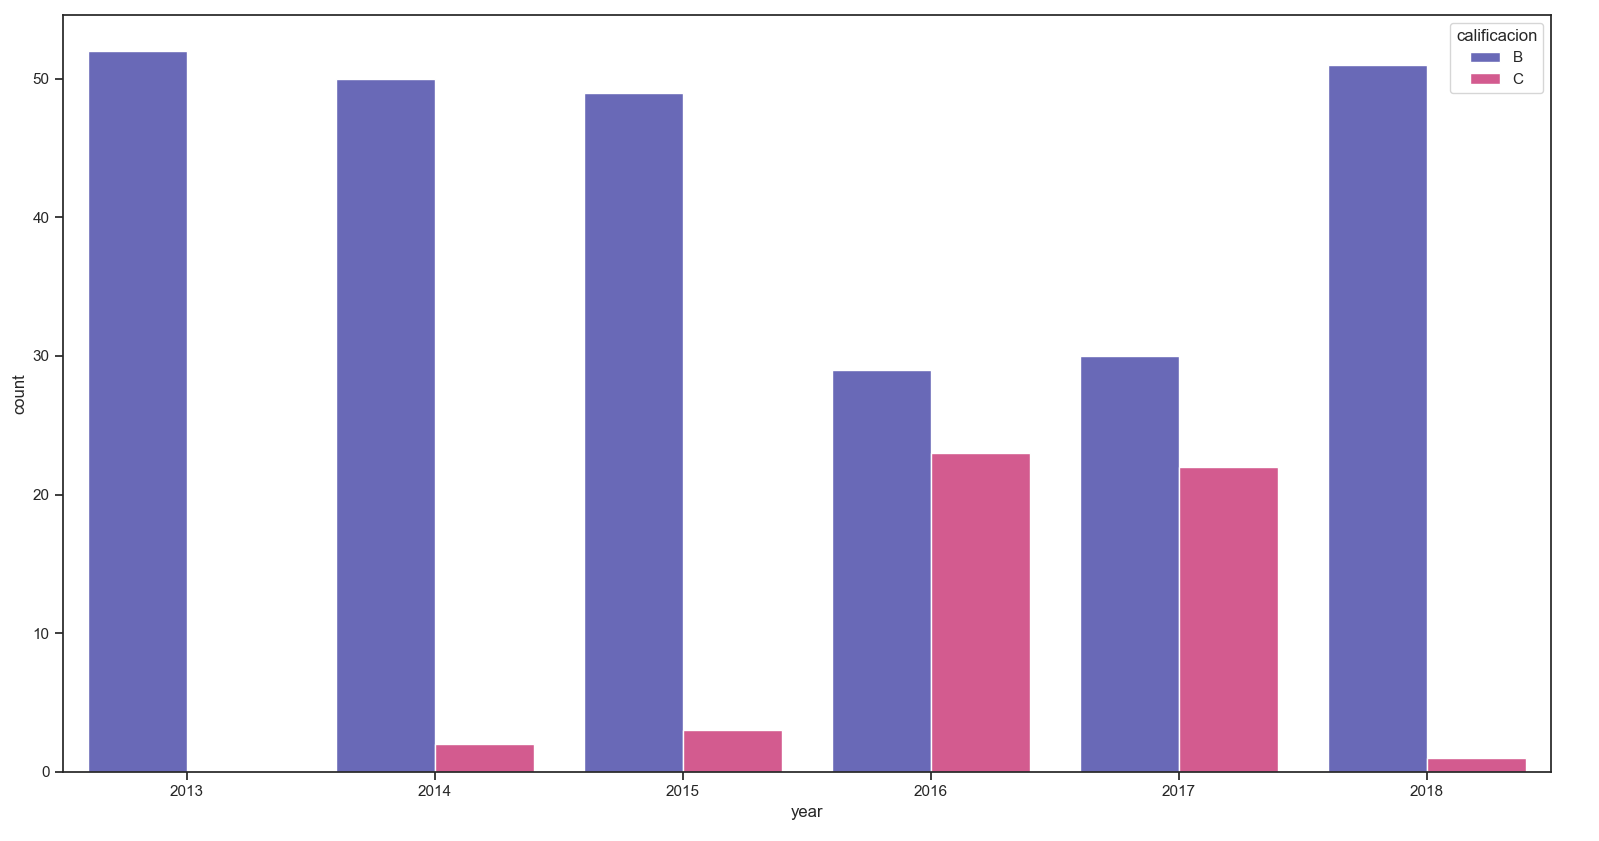
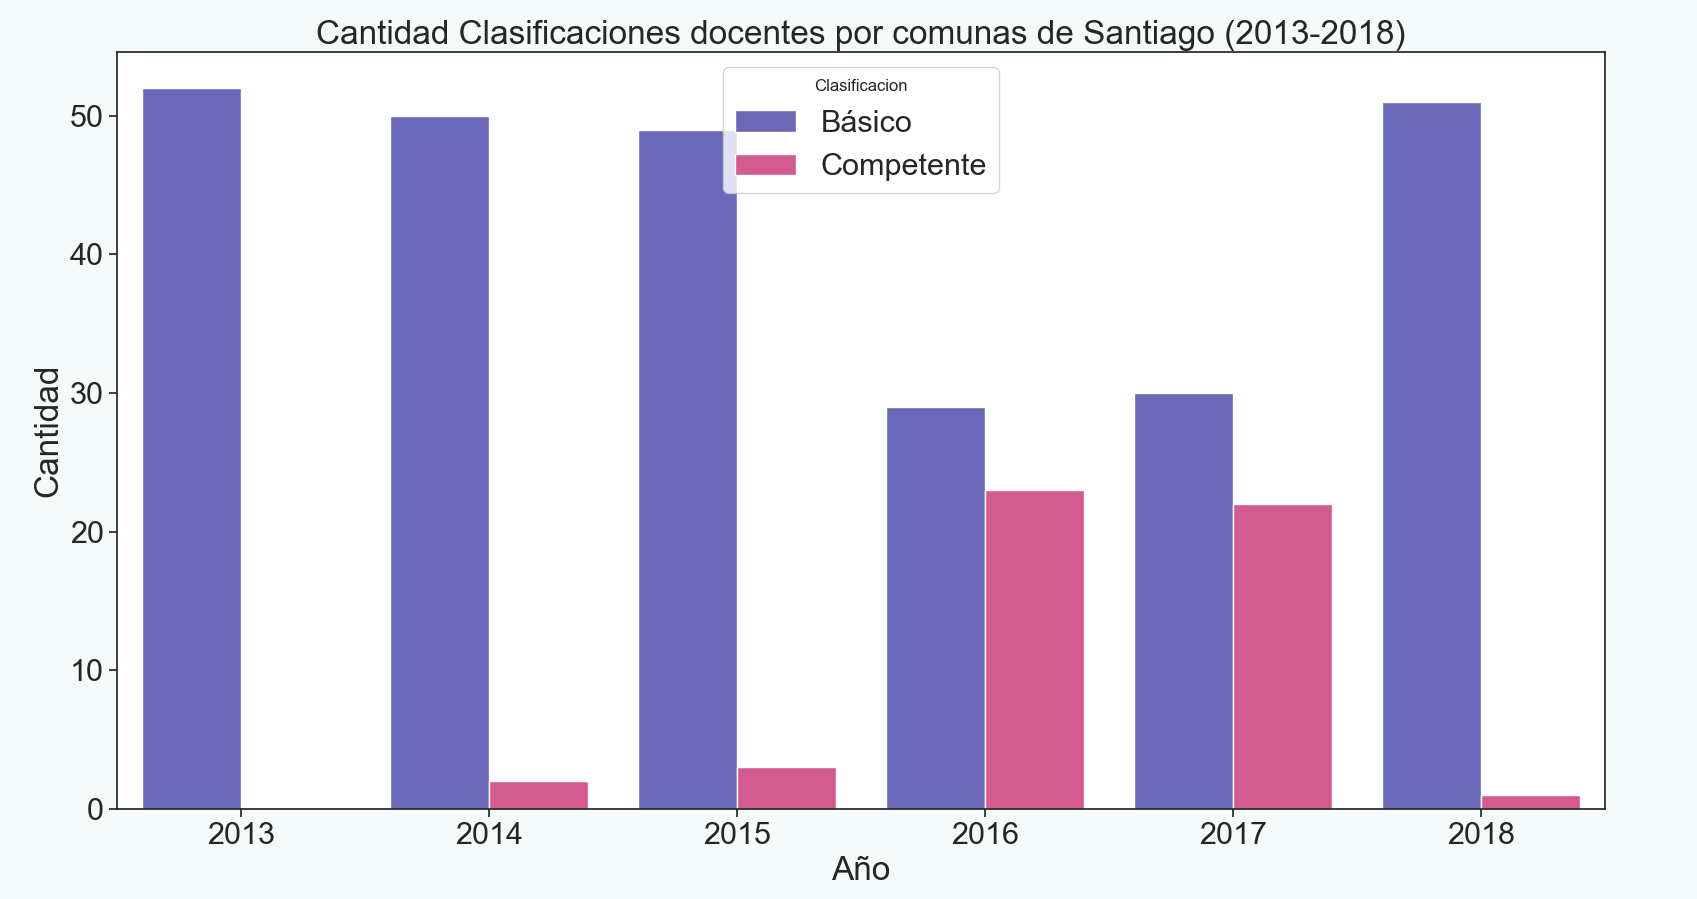
modificando grafico de comunas

Changed region(s): [[0.0, 0.0, 0.9806, 0.9584], [0.521, 0.4328, 0.5822, 0.4637], [0.4903, 0.9584, 0.521, 0.9893]]

diff --git a/src/main/python/alumnosvsdocentes/barplot_regiones.py b/src/main/python/alumnosvsdocentes/barplot_regiones.py
@@ -53,12 +53,13 @@ labels =['I','II','III','IV','V','VI','VII','VIII','IX','X','XI','XII','RM', 'XI
 x = np.arange(15)
 
 fig, ax = plt.subplots()
+plt.rcParams.update({'font.size': 14})
 
-
+fig.set_facecolor('#F5FBFB')
 
 width = 0.35
 
-m=df[df['year']==2016]
+m=df[df['year']==2017]
 
 m.avg_grades_alumnos.plot(kind='bar', color=([255/255, 109/255, 197/255]), ax=ax, width=width, position=1)
 
@@ -68,7 +69,7 @@ m.avg_grades_alumnos.plot(kind='bar', color=([255/255, 109/255, 197/255]), ax=ax
 # set x-axis label
 ax.set_xlabel("Regiones",fontsize=14)
 # set y-axis label
-ax.set_ylabel("Promedio Alumnos",color=([255/255, 109/255, 197/255]),fontsize=14)
+ax.set_ylabel("Promedio Alumnos",color=([255/255, 109/255, 197/255]),fontsize=18)
 ax.set_ylim([1, 7])
 
 
@@ -78,13 +79,13 @@ ax2=ax.twinx()
 m.avg_grades_docentes.plot(kind='bar', color=([84/255, 88/255, 255/255]), ax=ax2, width=width, position=0)
 #ax2.bar(x=df[df['year']==2017]['region']+width, y=df[df['year']==2017]['avg_grades_docentes'],color=([84/255, 88/255, 255/255]),width= width, height = 10)
 
-ax2.set_ylabel("Promedio Docentes",color=([84/255, 88/255, 255/255]),fontsize=14)
+ax2.set_ylabel("Promedio Docentes",color=([84/255, 88/255, 255/255]),fontsize=18)
 ax2.set_ylim([1, 4])
-plt.xlabel("Regiones")
+plt.xlabel("Regiones", fontsize=30)
 ax.set_xticks(x)
-ax.set_xticklabels(labels)
+ax.set_xticklabels(labels, fontsize=18)
 plt.xlim([-1,15])
-plt.title("Rendimiento alumnos y docentes por region (2016)")
+plt.title("Rendimiento alumnos y docentes por region (2017)")
 
 
 plt.show()

diff --git a/src/main/python/alumnos/barplot_yearly_grades.py b/src/main/python/alumnos/barplot_yearly_grades.py
@@ -39,7 +39,10 @@ cat_5 = df[df['year']==2017]
 cat_6 = df[df['year']==2018]
 
 
+plt.rcParams.update({'font.size': 14})
 
+fig = plt.figure(figsize=(10, 7))
+fig.set_facecolor('#F5FBFB')
 X = df['year']
 #X = X + np.random.normal(size=X.shape)*0.07
 Y = df['avg_grades']
@@ -48,13 +51,14 @@ plt.xticks(range(2002, 2020, 2))
 plt.bar(X, Y, width=0.8, bottom=None, align='center', data=None, color =([255/255, 109/255, 197/255]))
 
 
+ax = plt.gca()
+ax.set_facecolor('#F5FBFB')
+ax.set_xticks([2003,2004,2005,2006,2007,2008,2009,2010,2011,2012,2013,2014,2015,2016,2017,2018])
 plt.xlim([2002,2019])
 plt.ylim([5,7])
 plt.xlabel("Años")
 plt.ylabel("Promedio Final Alumnos")
 plt.title("Rendimientos alumnos por año (2003-2018)")
-plt.legend(['promedio final'
-            ], framealpha=0.5)
 
 
 plt.show()

diff --git a/src/main/python/alumnos/barplot_yearly_assistance.py b/src/main/python/alumnos/barplot_yearly_assistance.py
@@ -39,21 +39,26 @@ cat_5 = df[df['year']==2017]
 cat_6 = df[df['year']==2018]
 
 
-
+plt.rcParams.update({'font.size': 14})
 X = df['year']
 #X = X + np.random.normal(size=X.shape)*0.07
 Y = df['avg_assistance']
 #Y = Y + np.random.normal(size=X.shape)*0.03
+
+
+fig = plt.figure(figsize=(10, 7))
+fig.set_facecolor('#F5FBFB')
 plt.bar(X, Y, width=0.8, bottom=None, align='center', data=None, color= ([84/255, 88/255, 255/255]))
 
+ax = plt.gca()
+ax.set_facecolor('#F5FBFB')
 
+ax.set_xticks([2003,2004,2005,2006,2007,2008,2009,2010,2011,2012,2013,2014,2015,2016,2017,2018])
 plt.xlim([2002,2019])
 plt.ylim([70,100])
 plt.xlabel("Años")
 plt.ylabel("Asistencia")
 plt.title("Asistencia alumnos por año (2003-2018)")
-plt.legend(['asistencia'
-            ], framealpha=0.5)
 
 
 plt.show()

diff --git a/src/main/python/docentes/barplot_metro_rank_count.py b/src/main/python/docentes/barplot_metro_rank_count.py
@@ -39,15 +39,24 @@ cat_5 = df[df['year']==2017]
 
 cat_6 = df[df['year']==2018]
 
-sns.set(style='ticks')
+
+
+fig = plt.figure(figsize=(10, 7))
+fig.set_facecolor('#F5FBFB')
+sns.set(font_scale=2,style='ticks')
 
 
 
 color = ["#5C5CC4", "#E7478D", "#90C4FE", "#1BBC9D", "#FFBB4C"]
 
 ax = sns.countplot(x="year", hue="calificacion" ,data=df,palette=color)
+plt.legend(title='Clasificacion', loc='upper center', labels=['Básico', 'Competente', 'Insuficiente'])
 
+plt.title("Cantidad Clasificaciones docentes por comunas de Santiago (2013-2018)")
 
+plt.xlabel("Año")
+
+plt.ylabel("Cantidad")
 plt.show()
 
 """

diff --git a/src/main/python/docentes/barplot_yearly_rank_count.py b/src/main/python/docentes/barplot_yearly_rank_count.py
@@ -39,11 +39,18 @@ cat_5 = df[df['year']==2017]
 
 cat_6 = df[df['year']==2018]
 
-sns.set(style='ticks')
+
+fig = plt.figure(figsize=(10, 7))
+fig.set_facecolor('#F5FBFB')
+sns.set(font_scale=2,style='ticks')
 
 color = ["#5C5CC4", "#E7478D", "#90C4FE", "#1BBC9D", "#FFBB4C"]
 ax = sns.countplot(x="year", hue="calificacion" ,data=df,palette=color)
+plt.legend(title='Clasificacion', loc='upper center', labels=['Básico', 'Competente', 'Insuficiente'])
+plt.title("Cantidad Clasificaciones docentes por establecimiento (2013-2018)")
+plt.xlabel("Año")
 
+plt.ylabel("Cantidad")
 plt.show()
 
 """
